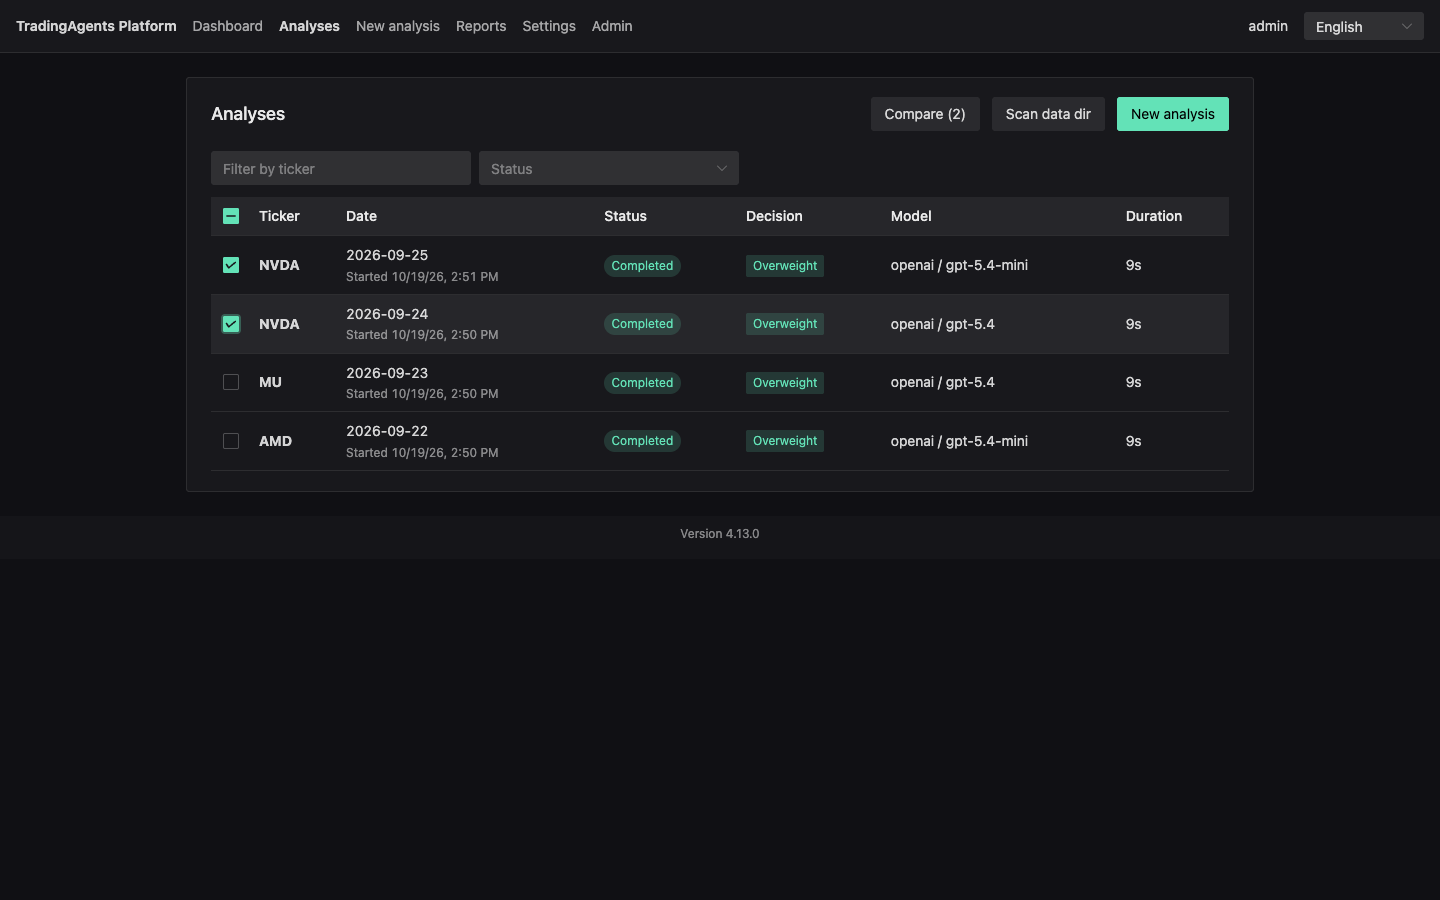
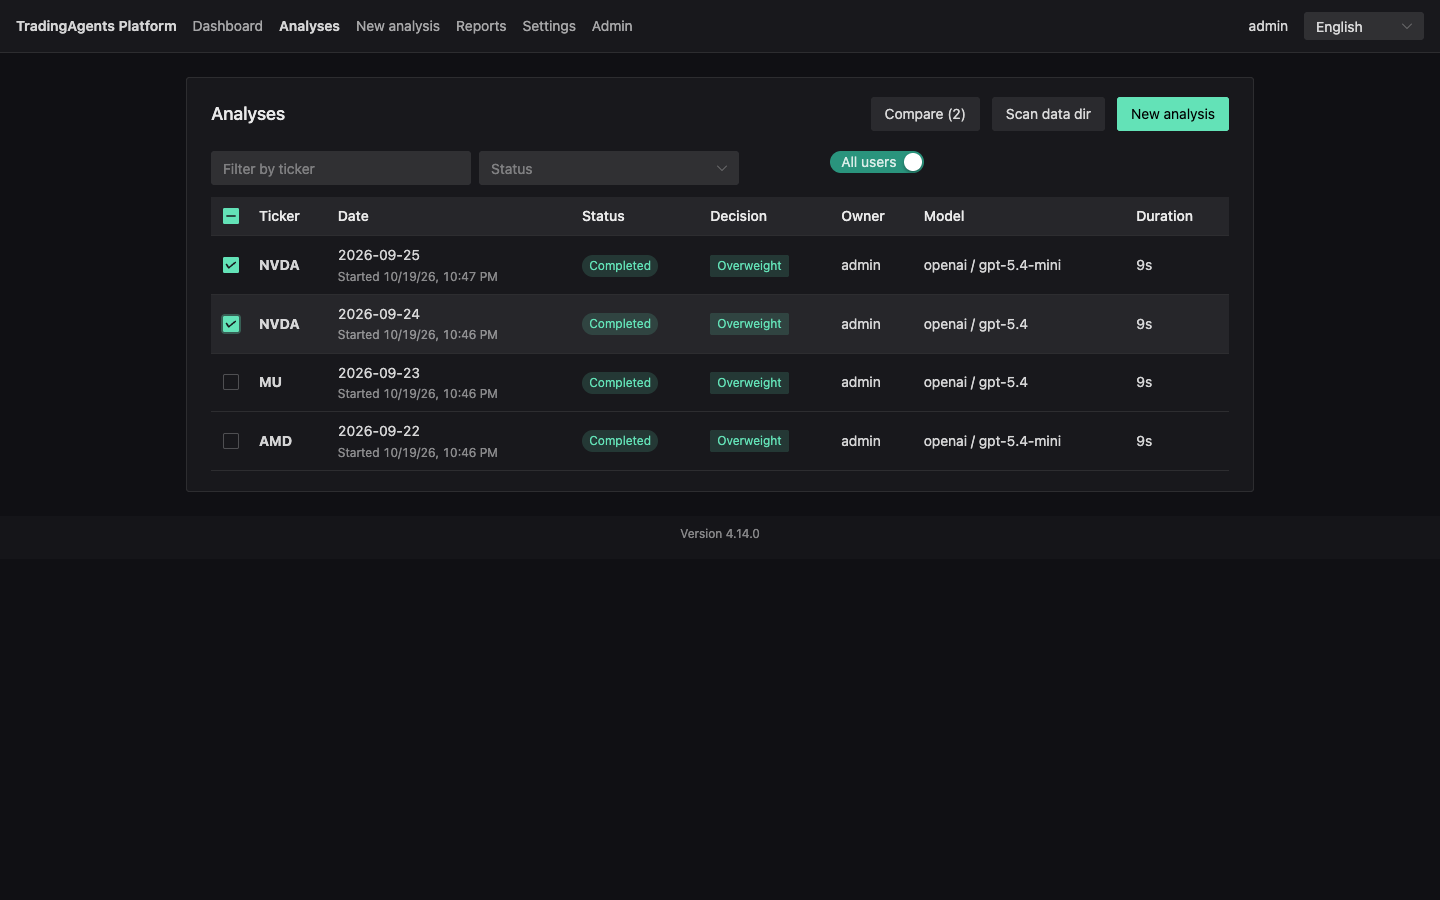
Cover analysis ownership in e2e, docs and the Analyses screenshot
Raise the version to 4.14.0.

Work-package: WP6

diff --git a/e2e/tests/ownership.e2e.ts b/e2e/tests/ownership.e2e.ts
@@ -1,0 +1,62 @@
+import { expect, test } from '@playwright/test'
+import { completedAnalysis, csrfHeaders } from './support'
+
+// Runs as the shared admin, whose session must not change. The analyst is created here with a unique
+// name, because the tests run in parallel and are retried.
+
+test("an analyst does not see the admin's run, and the admin sees it with its owner", async ({
+  page,
+  request,
+  browser,
+}) => {
+  const ticker = 'ORCL'
+  const id = await completedAnalysis(request, ticker)
+
+  const username = `e2e-analyst-${Date.now()}`
+  const newPassword = 'a-brand-new-password-1'
+  const roles = (await (await request.get('/api/roles')).json()) as { id: string; name: string }[]
+  const analyst = roles.find((role) => role.name === 'ANALYST')
+  expect(analyst).toBeDefined()
+  const created = await request.post('/api/users', {
+    headers: await csrfHeaders(request),
+    data: { username, roleIds: [analyst!.id] },
+  })
+  expect(created.ok(), await created.text()).toBe(true)
+  const { oneTimePassword } = (await created.json()) as { oneTimePassword: string }
+
+  const context = await browser.newContext({ storageState: { cookies: [], origins: [] } })
+  const analystPage = await context.newPage()
+  try {
+    await analystPage.goto('/login')
+    await analystPage.getByPlaceholder('Username').fill(username)
+    await analystPage.getByPlaceholder('Password').fill(oneTimePassword)
+    await analystPage.getByRole('button', { name: 'Log in' }).click()
+    await expect(analystPage).toHaveURL(/\/password\?redirect=\/$/)
+    await analystPage.getByPlaceholder('Current password').fill(oneTimePassword)
+    await analystPage.getByPlaceholder('New password', { exact: true }).fill(newPassword)
+    await analystPage.getByPlaceholder('Repeat new password').fill(newPassword)
+    await analystPage.getByRole('button', { name: 'Change password' }).click()
+    await expect(analystPage).toHaveURL('/')
+
+    await analystPage.goto('/analyses')
+    await expect(analystPage.locator('.n-card-header__main', { hasText: 'Analyses' })).toBeVisible()
+    await expect(analystPage.getByRole('switch')).toHaveCount(0)
+    await expect(analystPage.getByRole('row', { name: new RegExp(ticker) })).toHaveCount(0)
+
+    await analystPage.goto(`/analyses/${id}`)
+    await expect(analystPage.getByText('Analysis not found.')).toBeVisible()
+  } finally {
+    await context.close()
+  }
+
+  await page.goto('/analyses')
+  await page.getByRole('switch').click()
+  await expect(page).toHaveURL(/allUsers=true/)
+  await expect(page.getByRole('columnheader', { name: 'Owner' })).toBeVisible()
+  await expect(
+    page
+      .getByRole('row', { name: new RegExp(ticker) })
+      .first()
+      .getByRole('cell', { name: 'admin' }),
+  ).toBeVisible()
+})

diff --git a/e2e/screenshots/analyses.shot.ts b/e2e/screenshots/analyses.shot.ts
@@ -2,7 +2,8 @@ import { expect, test } from '@playwright/test'
 import { replayedRun } from './runs'
 import { shot } from './support'
 
-// README, "6. Past analyses": the Analyses list with two runs ticked for comparing.
+// README, "7. Past analyses": the Analyses list of all users, with the Owner column and two runs
+// ticked for comparing.
 test('analyses list with two runs ticked', async ({ page, request }) => {
   // Four replayed runs, one after the other.
   test.setTimeout(240_000)
@@ -11,7 +12,8 @@ test('analyses list with two runs ticked', async ({ page, request }) => {
   await replayedRun(request, 'NVDA', '2026-09-24', 'gpt-5.4')
   await replayedRun(request, 'NVDA', '2026-09-25')
 
-  await page.goto('/analyses')
+  await page.goto('/analyses?allUsers=true')
+  await expect(page.getByRole('columnheader', { name: 'Owner' })).toBeVisible()
   for (const row of [0, 1]) {
     await page.getByRole('row', { name: /NVDA/ }).nth(row).getByRole('checkbox').click()
   }

diff --git a/e2e/tests/users.e2e.ts b/e2e/tests/users.e2e.ts
@@ -53,6 +53,12 @@ test('an admin creates a user who logs in with the one-time password, then disab
     await expect(userPage).toHaveURL('/')
     await expect(userPage.getByRole('button', { name: username })).toBeVisible()
     await expect(userPage.getByRole('button', { name: 'Admin', exact: true })).toHaveCount(0)
+    // Load the Analyses page's chunk while the session is valid: the disabled session is refused the
+    // asset too, and the 401 that sends the user to the login page is the page's own API call.
+    await userPage.getByText('Analyses', { exact: true }).first().click()
+    await expect(userPage).toHaveURL('/analyses')
+    await userPage.getByText('Dashboard', { exact: true }).click()
+    await expect(userPage).toHaveURL('/')
 
     await page.reload()
     await expect(row).toContainText('Active')

diff --git a/artifact/ta-runner/ta_runner/__init__.py b/artifact/ta-runner/ta_runner/__init__.py
@@ -1,6 +1,6 @@
 """Headless runner for TradingAgents: spec.json in, JSONL events out."""
 
-__version__ = "4.13.0"
+__version__ = "4.14.0"
 
 # Version of the runner <-> platform event protocol (docs/event-protocol.md).
 PROTOCOL_VERSION = 1

diff --git a/README.md b/README.md
@@ -150,10 +150,12 @@ and report tables that are series over periods (quarterly or yearly figures) get
 
 ### 7. Past analyses
 
-**Analyses** lists every run with its analysis date and start time, decision, model and duration,
-filterable by ticker and status.
+**Analyses** lists your own runs with their analysis date and start time, decision, model and
+duration, filterable by ticker and status. A user with `analysis:read:all` (ADMIN) also gets an
+**All users** switch, off by default, that lists everyone's runs with an **Owner** column.
 Runs made outside the platform are imported (read-only) and show up by themselves within about
-10 seconds, as the data dir is watched; **Scan data dir** forces a rescan:
+10 seconds, as the data dir is watched; they belong to the first admin. **Scan data dir** forces a
+rescan:
 
 - reports the TradingAgents CLI (or another UI) left in `~/.tradingagents/logs`;
 - a third-party UI's run history, `~/.tradingagents/runs.json`: its failed runs with their errors,
@@ -164,7 +166,7 @@ Runs made outside the platform are imported (read-only) and show up by themselve
 A run whose report files are still being written is not shown as failed; it appears once it
 finishes.
 
-![Analyses list, two runs ticked for comparing](docs/screenshots/analyses.png)
+![Analyses list of all users with the Owner column, two runs ticked for comparing](docs/screenshots/analyses.png)
 
 To compare runs, tick two to four of them and press **Compare**: the compare view shows them side
 by side, one column per run, with the settings (ticker, date, provider and models, analysts,
@@ -488,10 +490,14 @@ The backend:
 
   Three roles are built in. ADMIN has every permission, and the first admin has it. ANALYST runs
   analyses, reads and deletes analyses, manages presets and reads the settings. VIEWER reads
-  analyses and presets. The analyses and presets are those of every user until the ownership
-  issues ([#91](https://github.com/ramazangirgin/trading-analysis-platform/issues/91),
-  [#92](https://github.com/ramazangirgin/trading-analysis-platform/issues/92)) make "their own"
-  true. The UI hides the links, buttons and pages the user has no permission for; the backend
+  analyses and presets. Analyses are the user's own: the user who started a run owns it (a rerun
+  belongs to whoever reran it, imported runs to the first admin), and another user's analysis
+  answers 404 like a missing one, unless the user has `analysis:read:all` (ADMIN). The presets are
+  those of every user until the ownership issue
+  ([#92](https://github.com/ramazangirgin/trading-analysis-platform/issues/92)) makes "their own"
+  true. On the first start after the upgrade, analyses without an owner are given to the first
+  admin. `GET /api/analyses?allUsers=true` lists everyone's analyses with `analysis:read:all` and is
+  ignored without it. The UI hides the links, buttons and pages the user has no permission for; the backend
   rules are what protect.
 - The live event stream of a run (`GET /api/analyses/{id}/events`) needs a session and
   `analysis:read` like the other analysis reads, and a stream that is open when its session ends (logout, idle timeout,

diff --git a/.plans/91-analysis-ownership.md b/.plans/91-analysis-ownership.md
@@ -245,14 +245,15 @@ Packages without a dependency between them can be implemented in parallel.
 
 ### WP6: e2e, screenshot and docs
 
+- **Status**: done
 - **Depends on**: WP5
 - **Files**:
   - `e2e/tests/ownership.e2e.ts` (new)
   - `e2e/screenshots/analyses.shot.ts`, `docs/screenshots/analyses.png`
   - `README.md`
 - **Steps**:
-  - [ ] e2e: the admin creates an ANALYST (unique name, as in `users.e2e.ts`, through the API); the analyst logs in, changes the one-time password, and sees an empty **Analyses** list without the All users switch while the admin's completed run (`completedAnalysis`) exists; opening that run's URL shows "not found". The admin turns on **All users** and sees the run with the Owner column.
-  - [ ] Retake the screenshot and update the docs below.
+  - [x] e2e: the admin creates an ANALYST (unique name, as in `users.e2e.ts`, through the API); the analyst logs in, changes the one-time password, and sees an empty **Analyses** list without the All users switch while the admin's completed run (`completedAnalysis`) exists; opening that run's URL shows "not found". The admin turns on **All users** and sees the run with the Owner column.
+  - [x] Retake the screenshot and update the docs below.
 - **Tests**: the e2e test above (`mise run e2e`).
 
 ## Tests
